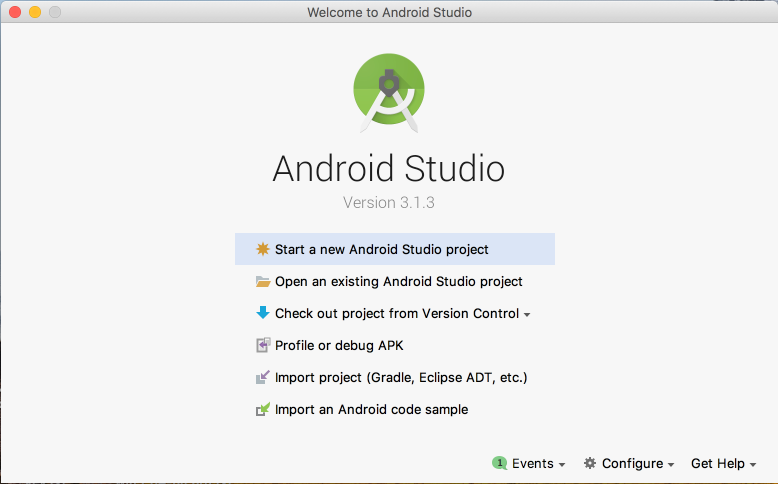
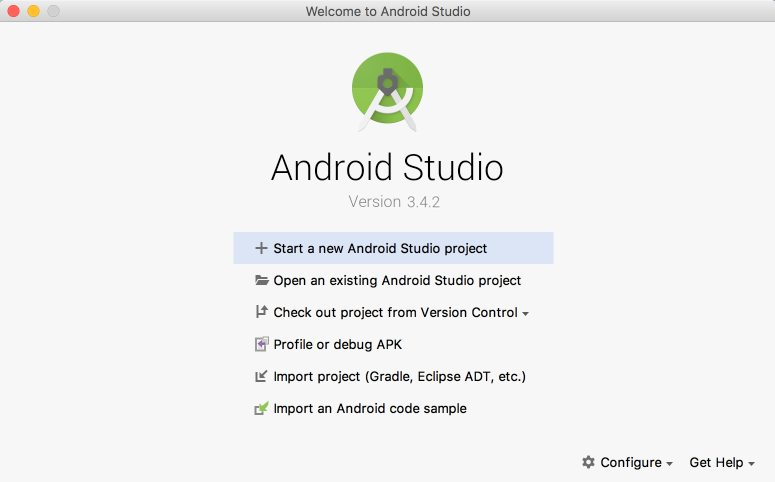
Tutorial document update

diff --git a/tutorials/GetStarted.md b/tutorials/GetStarted.md
@@ -7,7 +7,7 @@
 ---
 # Get Started
 
-This section provides an example of creating your Android project and using the $KANDY$ Mobile SDK in your project. Android Studio 3.1.3 is used for this example, but you may use your development environment of choice to create your project.
+This section provides an example of creating your Android project and using the $KANDY$ Mobile SDK in your project. Android Studio 3.4.2 is used for this example, but you may use your development environment of choice to create your project.
 
 ## Creating the Android project
 
@@ -46,52 +46,92 @@ For the target SDK version, Google suggests to set API Level 26 or higher. Targe
 
 ![alt text](img/get_started_5.png "")
 
-<br>
-7. Copy the Mobile SDK jar file (“CPaaSSDK_x.x.x.jar") under your MobileSDKDemo's **libs** folder.
 
+
+### Adding MobileSDK dependency to your project
+
+There are 2 option to add MobileSDK dependency to your project. You can add MobileSDK dependency from github repository or you can add it your project manually. This document will explain both options in detail. 
+
+
+#### Adding MobileSDK dependency to your project from GitHub repository
+1. Add MobileSDK repository url to your root level **build.gradle** file. 
+
+
+	```
+	allprojects {
+    	repositories {
+        	google()
+        	jcenter()
+
+        	maven {
+         	  url "https://raw.githubusercontent.com/Kandy-IO/kandy-cpaas-android-sdk/master/dist/"
+        	}
+   		}
+	}
+	```
+	
 ![alt text](img/get_started_6.png "")
 
-<br>
+2. Add dependcy of MobileSDK to your app level **build.gradle** file.
 
-8. In “CPaaSSDK-x.x.x.zip”, along with the “CPaaSSDK_x.x.x.jar", you will also find native WebRTC library called "libjingle_peerconnection_so.so", compiled for different architectures. In Android projects the ones in “armeabi” and "arm64-v8a" folders will be used.
- Move those folders named under the **libs** folder in the project along with the "libjingle_peerconnection_so.so" files, described above, inside them.
+	```
+	implementation 'com.kandy.mobile:kandycpaasmobilesdk:{version}'
 
-![alt text](img/get_started_7.png "")
+	```
 
-<br>
+	![alt text](img/get_started_7.png "")
 
-9. Open **build.gradle** file, located under **app** module of **MobileSDKDemo** project. Add the configuration script below to the file, in order the application to locate libjingle library (and other JNI libraries if used in the application).
+	---
+	**NOTE**
 
-```
-android {
-    .
-    .
-    .
-    sourceSets {
-        main {
-            jniLibs.srcDirs = ['libs']
-        }
-    }
-}
-```
+	Check latest version of MobileSDK from [GitHub](https://github.com/Kandy-IO/kandy-cpaas-android-sdk). 
 
-![alt text](img/get_started_8.png "")
+	---
 
-<br>
 
-10. An Android application project must be compatible with Java 8 when it is using Mobile SDK library. This necessity comes from the WebRTC library, its code is dependent on some Java 8 features. In order to set this compliance, open **build.gradle** file, located under **app** module of **MobileSDKDemo** project. Add the configuration script below to the file.
+#### Adding MobileSDK dependency to your project manually
 
-```
-android {
-    .
-    .
-    .
-    compileOptions {
+
+1. Download latest MobileSDK version from [GitHub](https://github.com/Kandy-IO/kandy-cpaas-android-sdk) and copy **aar** file to your project **lib** folder.
+
+ ![alt text](img/get_started_8.png "")
+
+
+2. After that you need to inform gradle that your app will use manual aar files. To do that add **flatDir** path to your root level **build.gradle** file as in the example above.
+
+	```
+	flatDir {
+       dirs 'libs'
+   }
+	```
+ ![alt text](img/get_started_12.png "")
+
+3. Add dependcy of MobileSDK to your app level **build.gradle** file with **@aar** prefix.
+
+	```
+	implementation 'com.kandy.mobile:kandycpaasmobilesdk:{version}@aar'
+
+	```
+
+	![alt text](img/get_started_13.png "")
+
+
+### Adding Java 8 support
+ An Android application project must be compatible with Java 8 when it is using Mobile SDK library. This necessity comes from the WebRTC library, its code is dependent on some Java 8 features. In order to set this compliance, open **build.gradle** file, located under **app** module of **MobileSDKDemoApp** project. Add the configuration script below to the file.
+
+	```	
+	android{
+		compileOptions {
         targetCompatibility 1.8
         sourceCompatibility 1.8
     }
-}
-```
+	}
+	```
+	
+![alt text](img/get_started_14.png "")
+
+
+
 
 ## Using the $KANDY$ Mobile SDK in the Android project
 
